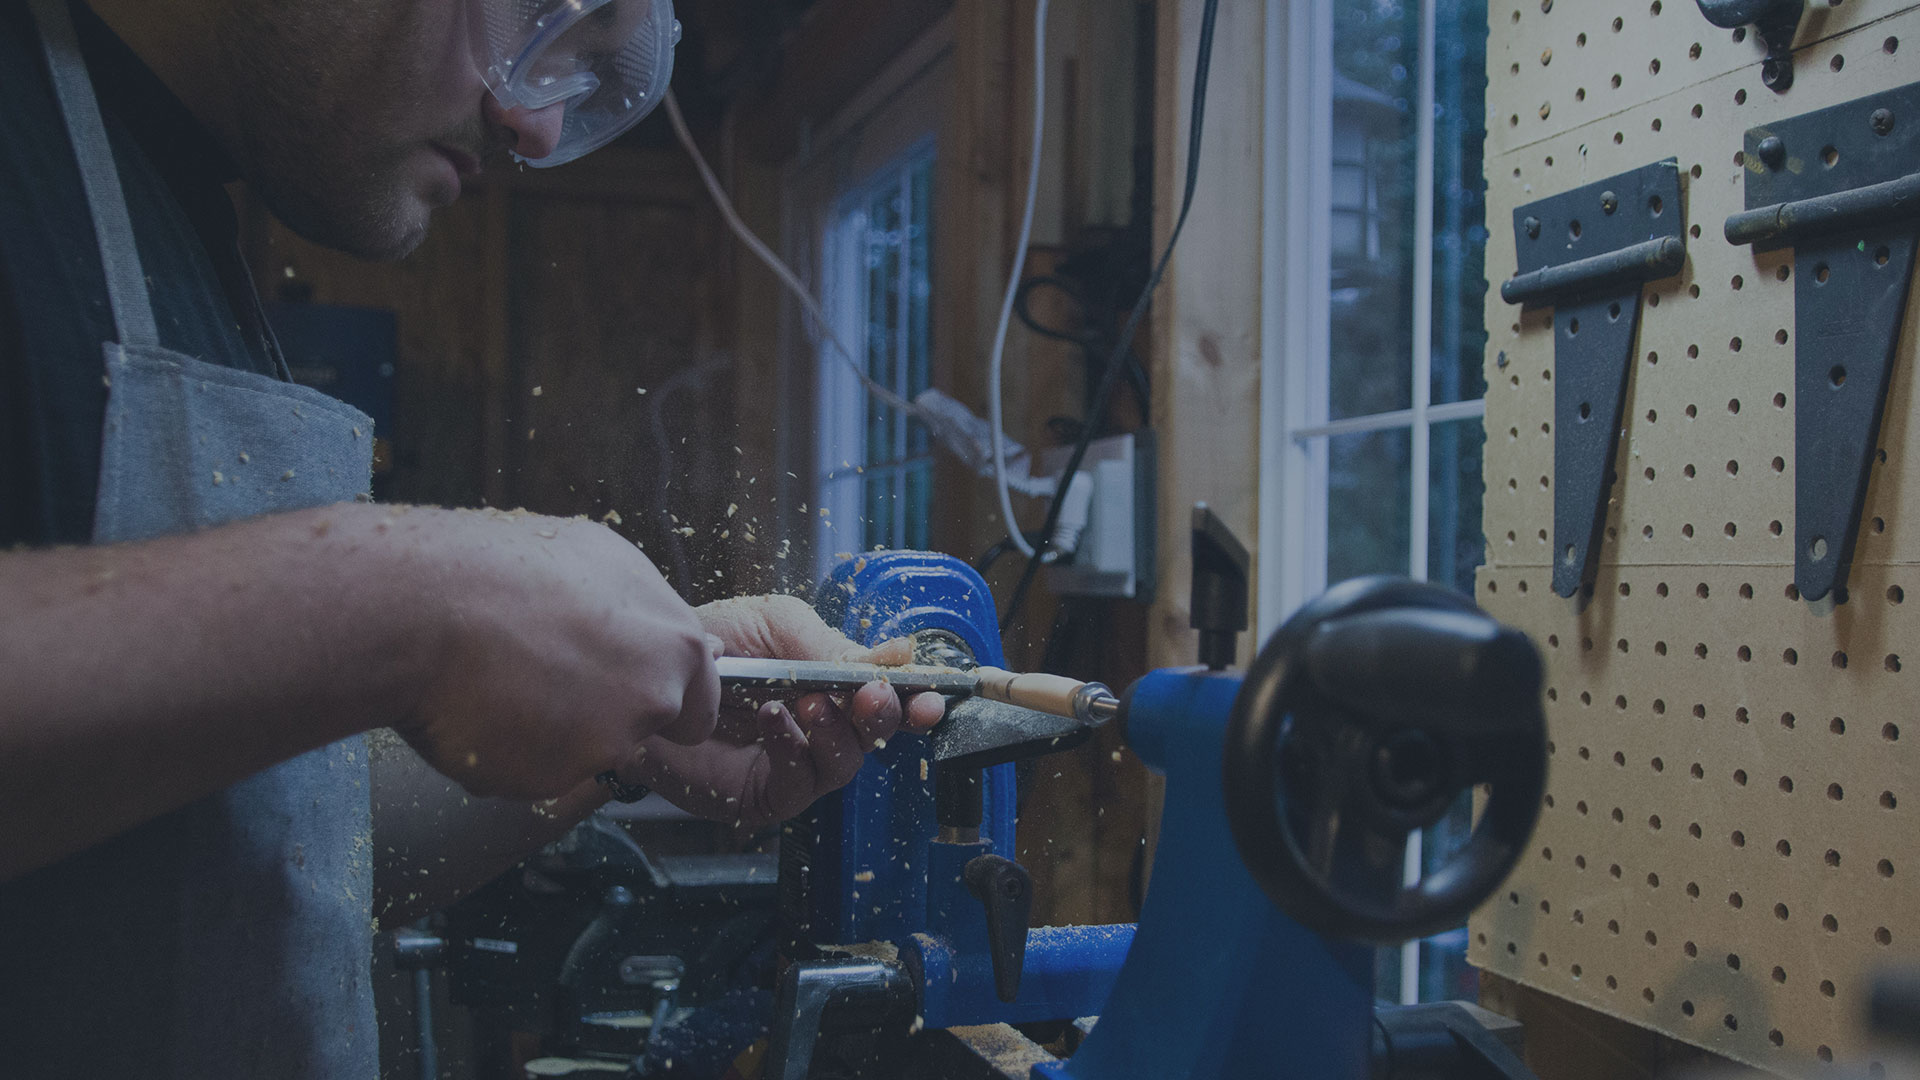
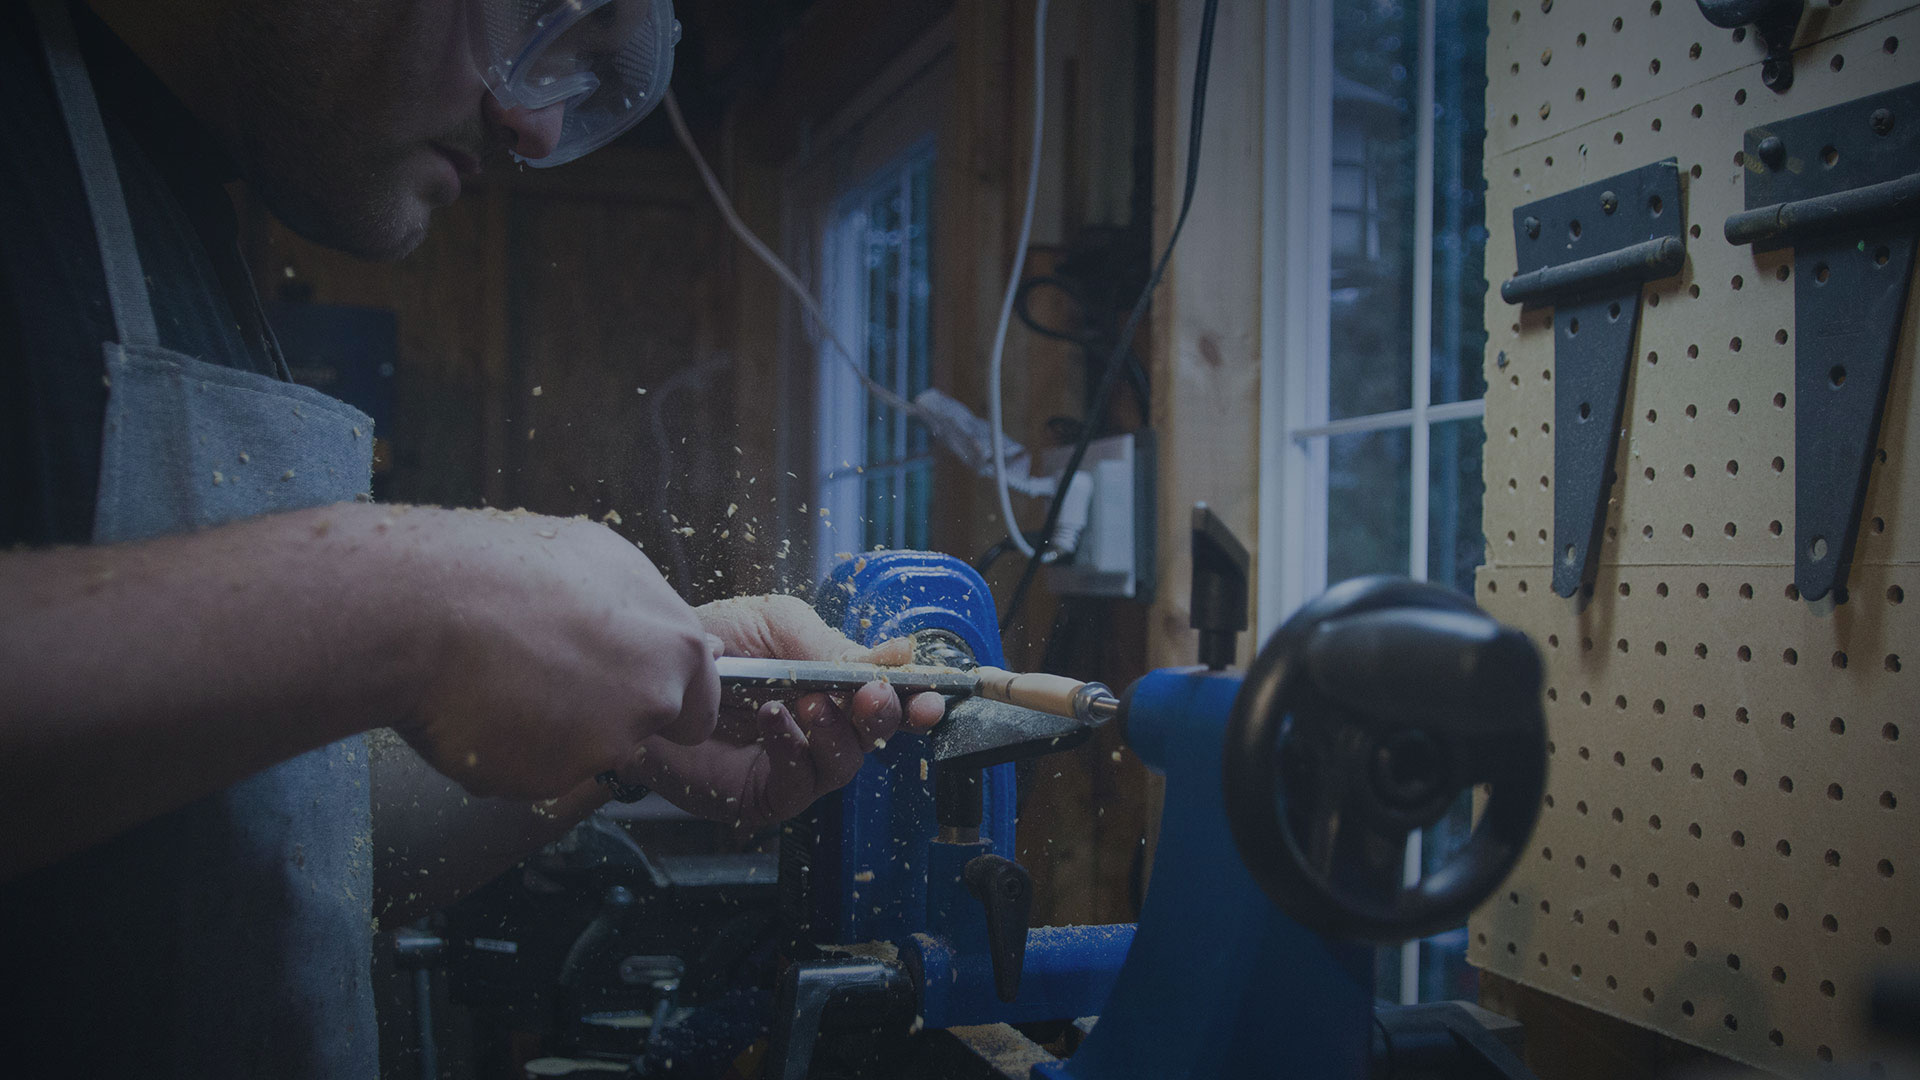
redesigned landing page

diff --git a/client/src/components/landing/landing.css b/client/src/components/landing/landing.css
@@ -1,111 +1,140 @@
 /*Landing*/
 #landing-wrapper {
-    height: 125vh;
-    width: 100vw;
-    display: flex;
-    flex-direction: column;
-    align-items: flex-start;
-    justify-content: center;
-    padding-left: 150px;
-    background-image: url(./slideshow/img2.jpg);
-    background-size: cover;
-    background-repeat: no-repeat;
+  height: 125vh;
+  width: 100vw;
+  display: flex;
+  flex-direction: column;
+  align-items: center;
+  justify-content: center;
+  position: relative;
+  overflow: hidden;
+}
+
+#landing-txt {
+  display: flex;
+  flex-direction: column;
+  align-items: center;
+  margin-top: -25vh;
+  line-height: 1.35;
+}
+
+.landing-image {
+  width: 100%;
+  height: 100%;
+  position: absolute;
+  z-index: -10;
+  top: 0;
+  left: 0;
+  right: auto;
+  object-fit: cover;
+}
+
+#landing-wrapper h1 {
+  padding: 0;
+  color: var(--white);
+  font-size: 6rem;
+  font-weight: 700;
+  margin: 0;
+  text-shadow: 0px 15px 35px rgba(61, 61, 95, 0.041),
+    0px 5px 15px rgba(0, 0, 0, 0.1);
+}
+
+#landing-wrapper h2 {
+  padding: 0;
+  color: var(--white);
+  font-weight: 400;
+  font-size: 2.5rem;
+  margin: 0;
+  text-shadow: 0px 15px 35px rgba(61, 61, 95, 0.041),
+    0px 5px 15px rgba(0, 0, 0, 0.1);
+}
+
+.landing-reveal {
+  width: auto;
+  height: min-content;
+}
+
+.btn {
+  display: flex;
+  flex-wrap: nowrap;
+  background: var(--orange);
+  align-items: center;
+  text-decoration: none;
+  color: var(--white);
+  padding: 18px 23px 18px 23px;
+  width: max-content;
+  font-size: 1.2rem;
+  font-weight: 500;
+  transition-property: all;
+  transition-duration: 0.25s;
+  transition-timing-function: cubic-bezier(0.55, 0, 0.1, 1);
+  margin-top: 50px;
+  border-radius: 40px;
+  z-index: 0;
+  box-shadow: 0px 15px 35px rgba(61, 61, 95, 0.041),
+    0px 5px 15px rgba(0, 0, 0, 0.1);
+  text-shadow: 0px 15px 35px rgba(61, 61, 95, 0.041),
+    0px 5px 15px rgba(0, 0, 0, 0.1);
+}
+
+.btn:hover {
+  transform: translateY(-2.5px);
+}
+
+.fa-long-arrow-alt-right {
+  font-size: 1.25rem;
+  margin-left: 15px;
+  color: hsl(0, 0%, 96%);
+}
+
+/*Responsiveness*/
+
+@media only screen and (max-width: 1250px) {
+  #landing-txt {
+    margin-top: 0;
   }
-  
+
+  #landing-wrapper {
+    height: 70vh;
+  }
+
+  #landing-wrapper h1 {
+    font-size: 4rem;
+  }
+
+  #landing-wrapper h2 {
+    font-size: 2rem;
+  }
+
+  .btn {
+    font-size: 1rem;
+    padding: 15px 20px 15px 20px;
+  }
+}
+
+@media only screen and (max-width: 850px) {
+  #landing-wrapper {
+    align-items: center;
+    background-position: left;
+    height: 40vh;
+    margin-top: 60px;
+  }
+
+  #landing-wrapper h1 {
+    font-size: 3rem;
+  }
+
+  #landing-wrapper h2 {
+    font-size: 1.5rem;
+  }
+
+  .btn {
+    margin-top: 25px;
+  }
+
   #landing-txt {
     display: flex;
     flex-direction: column;
-    justify-content: flex-start;
-    margin-top: -25vh;
-    line-height: 1.25;
-  }
-  
-  #landing-wrapper h1 {
-    padding: 0;
-    color: var(--white);
-    font-size: calc(2rem + 3vw);
-    font-weight: 700;
-    margin: 0;
-  }
-  
-  #landing-wrapper h2 {
-    padding: 0;
-    color: var(--white);
-    font-weight: 400;
-    font-size: calc(0.8rem + 3vw);
-    margin: 0;
-  }
-  
-  .landing-reveal {
-    width: auto;
-    height: min-content;
-  }
-  
-  .btn {
-    display: flex;
-    flex-wrap: nowrap;
-    background: var(--orange);
     align-items: center;
-    text-decoration: none;
-    color: var(--white);
-    padding: 20px 25px 20px 25px;
-    width: max-content;
-    font-size: 1.2rem;
-    font-weight: 500;
-    transition-property: all; 
-    transition-duration: 0.25s; 
-    transition-timing-function: cubic-bezier(0.55, 0, 0.1, 1);
-    margin-top: 15px;
-    border-radius: 40px;
-    z-index: 0;
-    box-shadow: 0px 15px 35px rgba(61, 61, 95, 0.041), 0px 5px 15px rgba(0, 0, 0, 0.1);
-
   }
-  
-  .btn:hover {
-    transform: translateY(-1.5px);
-  }
-  
-  .fa-long-arrow-alt-right {
-    font-size: 1.25rem;
-    margin-left: 15px;
-    color: hsl(0, 0%, 96%)
-  }
-
-  /*Responsiveness*/
-
-  @media only screen and (max-width: 1250px) {
-  
-    #landing-txt {
-      margin-top: 0;
-    }
-  
-    #landing-wrapper {
-      height: 70vh;
-      padding-left: 50px;
-    }
-  
-    .btn {
-      font-size: 1rem;
-      padding: 15px 20px 15px 20px;
-    }
-  
-  }
-  
-  @media only screen and (max-width: 850px) {
-      
-    #landing-wrapper {
-      align-items: center;
-      background-position: left;
-      height: 40vh;
-      padding: 0;
-      margin-top: 60px;
-    }
-  
-    #landing-txt {
-      display: flex;
-      flex-direction: column;
-      align-items: center;
-  
-    }
 }

diff --git a/client/src/components/landing/landing.js b/client/src/components/landing/landing.js
@@ -1,43 +1,16 @@
 import React, { useContext, useState, useEffect } from "react";
 import "./landing.css";
 import NavContext from "../context/navLinksContext";
+import simpleParallax from "simple-parallax-js";
+import bg from "./slideshow/img2.jpg";
 
 const Landing = props => {
   const navContext = useContext(NavContext);
   const [color, setColor] = navContext.color;
-  /*Parallax and navColor */
-
-  window.addEventListener("scroll", scrollEventHandler);
-  window.addEventListener("load", loadEventHandler);
-
-  function loadEventHandler() {
-    parallax();
-   // navColorLanding();
-  }
-
-  function scrollEventHandler() {
-    parallax();
-    //navColorLanding();
-  }
-
-  function parallax() {
-    const img = document.getElementById("landing-wrapper");
-    const scrollValue = document.documentElement.scrollTop;
-    const height = img.offsetHeight;
-    const landing_block = document.getElementById("landing-txt");
-    const btn = document.getElementsByClassName("btn");
-    const opacity = 1 - scrollValue / (height / 2) + 0.25;
-
-    if (scrollValue <= height) {
-      img.style.backgroundPositionY = scrollValue - scrollValue * 0.6 + "px";
-      //landing_block.style.opacity = opacity;
-      // btn[0].style.opacity = opacity;
-    }
-  }
 
   useEffect(() => {
     setColor(null);
-  })
+  });
 
   return (
     <React.Fragment>
@@ -54,9 +27,10 @@ const Landing = props => {
             <i className="fas fa-long-arrow-alt-right" aria-hidden="true" />
           </a>
         </div>
+        <img src={bg} className="landing-image" alt="landing image" />
       </div>
     </React.Fragment>
   );
-}
+};
 
 export default Landing;

diff --git a/client/src/components/signInAndSignUp/user.js b/client/src/components/signInAndSignUp/user.js
@@ -6,8 +6,11 @@ import SignUp from "./signUp";
 import Dashboard from "../dashboard/dashboard";
 import Spinner from "../spinner/spinner";
 import { useHistory } from "react-router-dom";
+import NavContext from "../context/navLinksContext";
 
 const User = () => {
+  const navContext = useContext(NavContext);
+  const [color, setColor] = navContext.color;
   const authContext = useContext(AuthContext);
   const [signInOrUp, setSignInOrUp] = authContext.signInOrUp;
   const [
@@ -19,6 +22,7 @@ const User = () => {
   let history = useHistory();
 
   useEffect(() => {
+    setColor("var(--black)");
     authContext.isInitialized().then(val => {
       setInitializedFirebase(val);
       setLoading(false);

diff --git a/client/src/components/dashboard/cart.css b/client/src/components/dashboard/cart.css
@@ -102,6 +102,7 @@
   text-align: center;
   outline: none;
   border: none;
+  border-radius: 15px;
   background-color:  hsl(204, 20%, 92%);
 }
 
